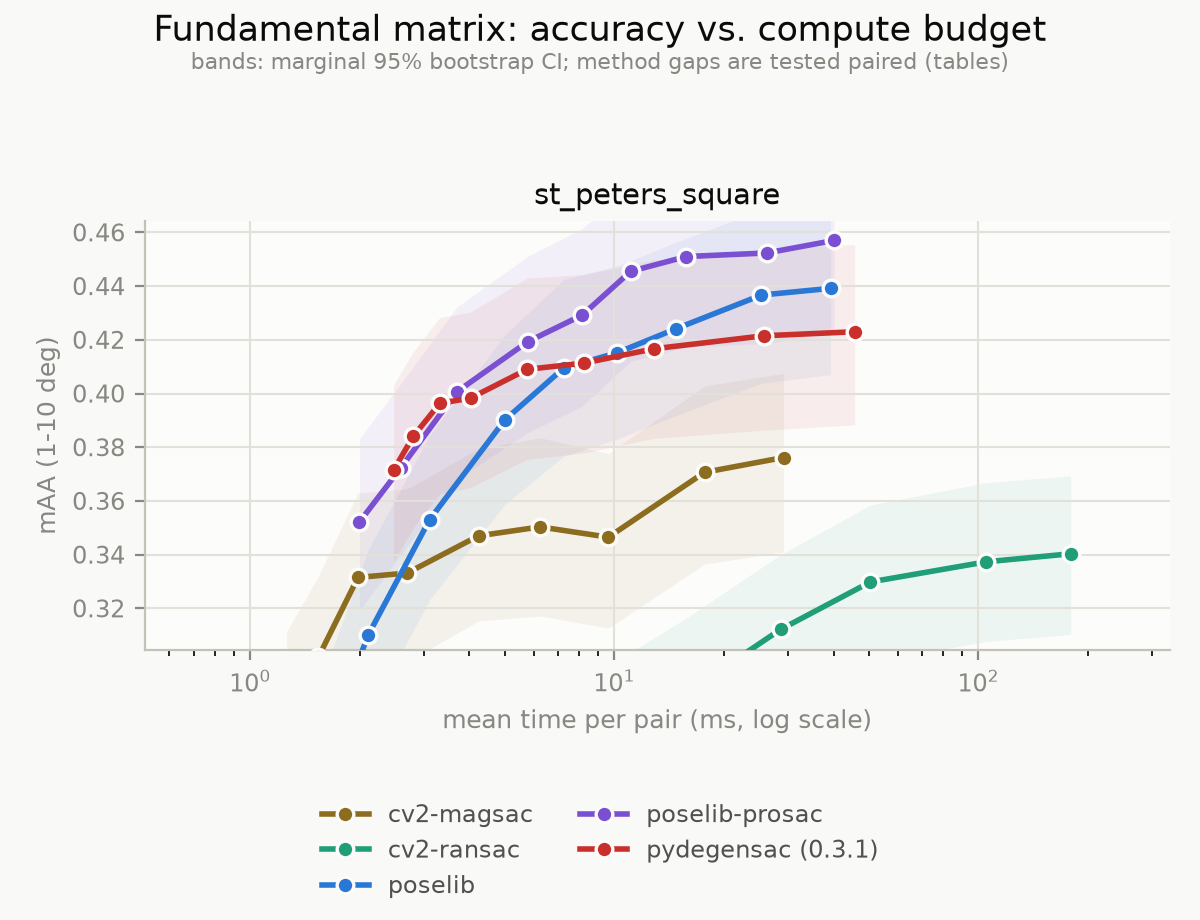
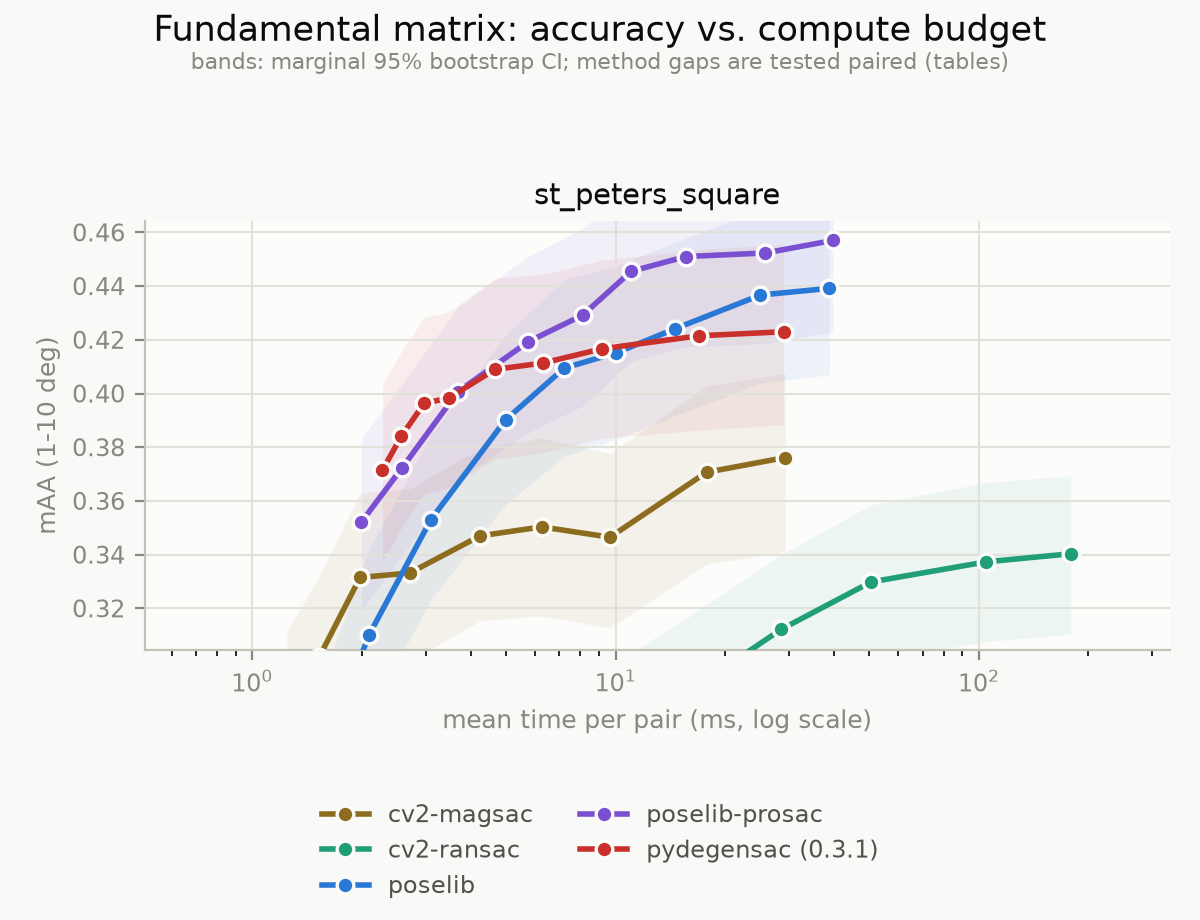
Refresh README benchmarks with the AVX build
Re-run the full x86 roster and the 0.3.0 comparison on 8c8eccb, which
includes the branchless MSAC truncation and the run-time AVX kernels.

Written by Claude (Opus 5.5) on behalf of @ducha-aiki

diff --git a/README.md b/README.md
@@ -68,13 +68,14 @@ OpenCV 5.0.
 </table>
 
 **Fundamental matrix.** At each method's best budget, pydegensac reaches 0.423
-mAA at 45.8 ms/pair. PoseLib PROSAC leads with 0.457 at 40.2 ms (paired gap
--0.034 mAA, 95% CI -0.055 to -0.012); OpenCV MAGSAC reaches 0.376 at 29.2 ms and
-OpenCV RANSAC 0.340 at 179.3 ms.
+mAA at 29.0 ms/pair. PoseLib PROSAC leads with 0.457 at 39.6 ms (paired gap
+-0.034 mAA, 95% CI -0.055 to -0.012); OpenCV MAGSAC reaches 0.376 at 29.3 ms and
+OpenCV RANSAC 0.340 at 179.0 ms. At 5,000 iterations pydegensac already reaches
+0.411 at 6.3 ms.
 
-**Homography.** On HPatchesSeq, pydegensac reaches 0.905 mAA at 2.2 ms/pair
-(6,400 iterations). OpenCV MAGSAC reaches 0.927 at 0.9 ms and PoseLib PROSAC
-0.930 at 7.7 ms (paired pydegensac gap -0.025 mAA, 95% CI -0.042 to -0.012),
+**Homography.** On HPatchesSeq, pydegensac reaches 0.905 mAA at 1.9 ms/pair
+(6,400 iterations). OpenCV MAGSAC reaches 0.927 at 0.85 ms and PoseLib PROSAC
+0.930 at 7.6 ms (paired pydegensac gap -0.025 mAA, 95% CI -0.042 to -0.012),
 consistent with the 2023 homography benchmark above. EVD's 8 test pairs do not
 separate the methods.
 
@@ -83,14 +84,18 @@ three seeds and two timing repeats per pair and budget:
 
 | | Linux x86-64 (i7-14700K) | Apple M1 |
 |---|---|---|
-| F, St Peter's Square | 1.10–1.83x (1.25x summed over budgets), identical mAA | 1.19–2.10x, identical mAA |
-| H, EVD | 1.25–1.76x (1.28x), identical mAA | 1.25–1.91x (EVD and HPatchesSeq), identical mAA |
-| H, HPatchesSeq | 1.17–1.18x (1.18x), mAA within 0.0002 | identical mAA at budgets ≥100; -1.54 / -0.69 points at 10 / 25 iterations |
+| F, St Peter's Square | 1.72–2.00x (1.79x summed over budgets), identical mAA | 1.19–2.10x, identical mAA |
+| H, EVD | 1.31–1.67x (1.34x), identical mAA | 1.25–1.91x (EVD and HPatchesSeq), identical mAA |
+| H, HPatchesSeq | 1.20–1.24x (1.22x), mAA within 0.0002 | identical mAA at budgets ≥100; -1.54 / -0.69 points at 10 / 25 iterations |
 
 The speed-up is largest at small iteration budgets, where fixed per-call costs
-dominate. See [benchmark instructions](benchmarks/README.md) for the protocol
-and the [earlier study](docs/reports/2026-08-11-ransac-benchmark.md) for
-historical results and threshold-transfer caveats. Reproduce with
+dominate. On x86-64 the fundamental-matrix error and scoring loops also use AVX
+when the CPU supports it, chosen at run time and bit-identical to the scalar
+code (`PYDEGENSAC_SIMD=0` forces scalar); AVX alone is 1.26x on F summed over
+budgets. The Apple M1 column predates the AVX and MSAC-scoring changes.
+See [benchmark instructions](benchmarks/README.md) for the protocol and the
+[earlier study](docs/reports/2026-08-11-ransac-benchmark.md) for historical
+results and threshold-transfer caveats. Reproduce with
 `cd benchmarks && python setup_data.py && ./run_current.sh linux`.
 
 # Installation
